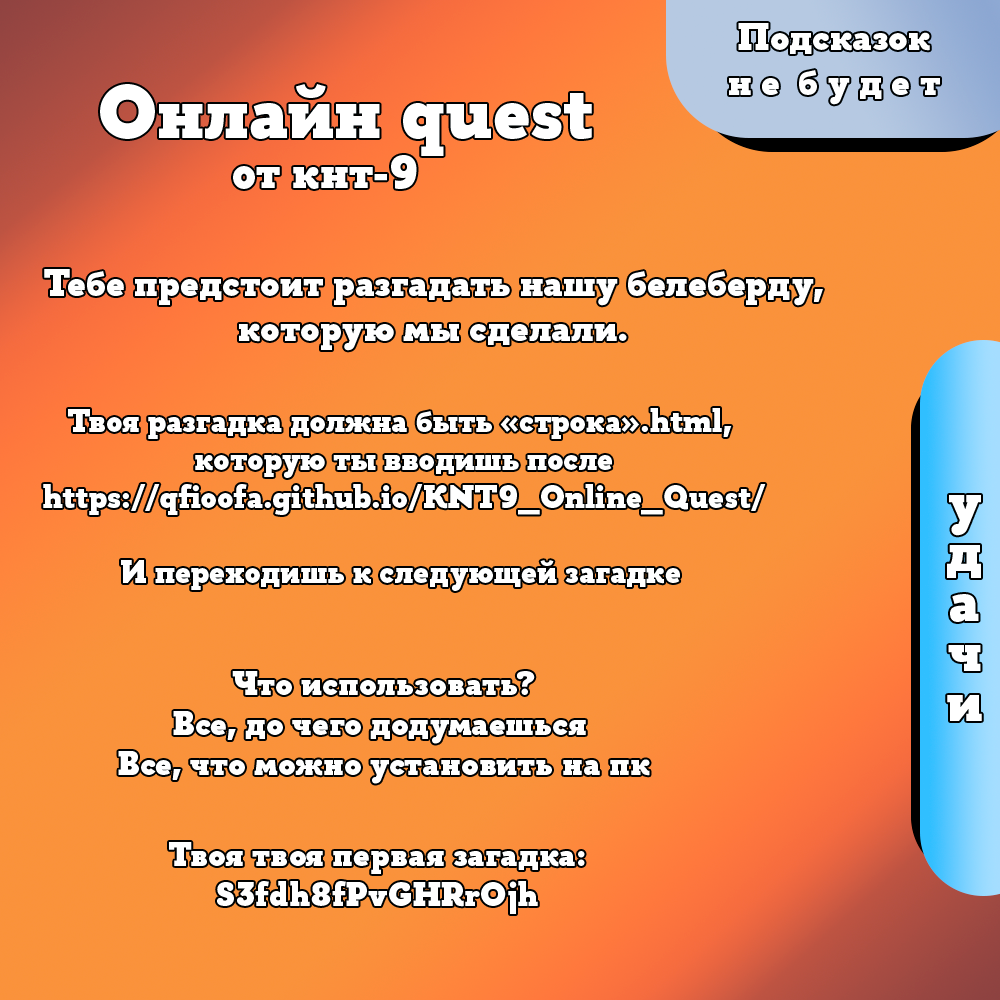
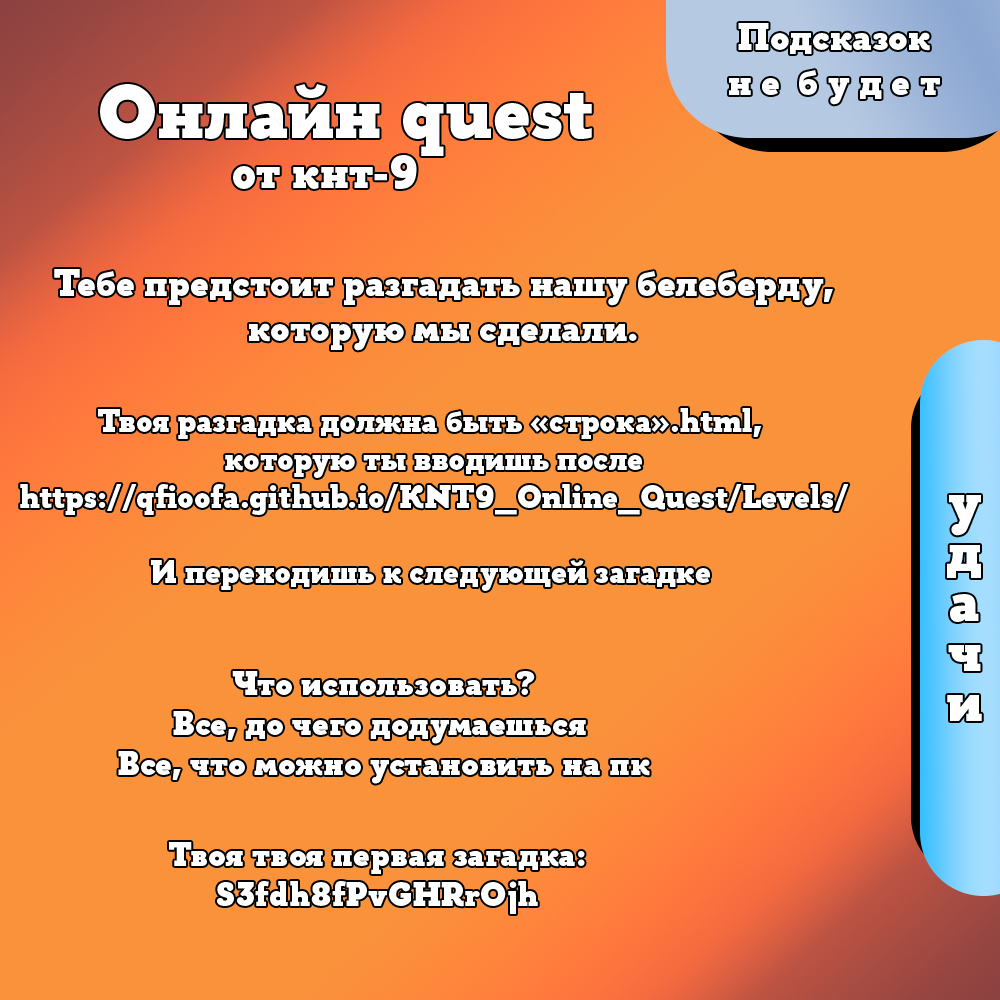
Финальные штрихи. Исправление недачетов

diff --git a/index.html b/index.html
@@ -6,24 +6,22 @@
 <body>
 
 <h1> Yooooooooooooo </h1>
-<a href="S3fdh8fPvGHRrOjh.html"></a>
-<a href="LJCQNaMVdW.html"></a>
 <center><img src="./Levels/file/StartPhoto.png">
 <a href="Вот скажи честно, долго ты над этим решением думал? Типо такой О дааа я знаю такой маневр чтобы посмотреть все ответы. В жизне ты так же действуешь? Смотрешь код элемента? Ну, ну, давай. Расскажи своим друзьям как ты обошел систему. Мавродий бы позавидовал. Подумай хоть 5 минут и поработай мозгами."></a>
 <a href="./Levels/S3fdh8fPvGHRrOjh.html"></a>
-<a href="/Levels/LJCQNaMVdW.html"></a>
-<a href="/Levels/9hsHcQuG.html"></a>
-<a href="/Levels/38oPfvaR.html"></a>
-<a href="/Levels/581KSVv5qE.html"></a>
-<a href="/Levels/gtkmB20540.html"></a>
-<a href="/Levels/IaXTvKGCIxm2.html"></a>
-<a href="/Levels/spxlPna.html"></a>
-<a href="/Levels/sWoQJv.html"></a>
-<a href="/Levels/tq93ph1a0v.html"></a>
-<a href="/Levels/TshrkfdudK.html"></a>
-<a href="/Levels/UO5Yy4yTKQ.html"></a>
-<a href="/Levels/y8lKvgUdtUEjxn3Q.html"></a>
-<a href="/Levels/zjH1lTNxtX.html"></a>
+<a href="./Levels/LJCQNaMVdW.html"></a>
+<a href="./Levels/9hsHcQuG.html"></a>
+<a href="./Levels/38oPfvaR.html"></a>
+<a href="./Levels/581KSVv5qE.html"></a>
+<a href="./Levels/gtkmB20540.html"></a>
+<a href="./Levels/IaXTvKGCIxm2.html"></a>
+<a href="./Levels/spxlPna.html"></a>
+<a href="./Levels/sWoQJv.html"></a>
+<a href="./Levels/tq93ph1a0v.html"></a>
+<a href="./Levels/TshrkfdudK.html"></a>
+<a href="./Levels/UO5Yy4yTKQ.html"></a>
+<a href="./Levels/y8lKvgUdtUEjxn3Q.html"></a>
+<a href="./Levels/zjH1lTNxtX.html"></a>
 
 </body>
 
